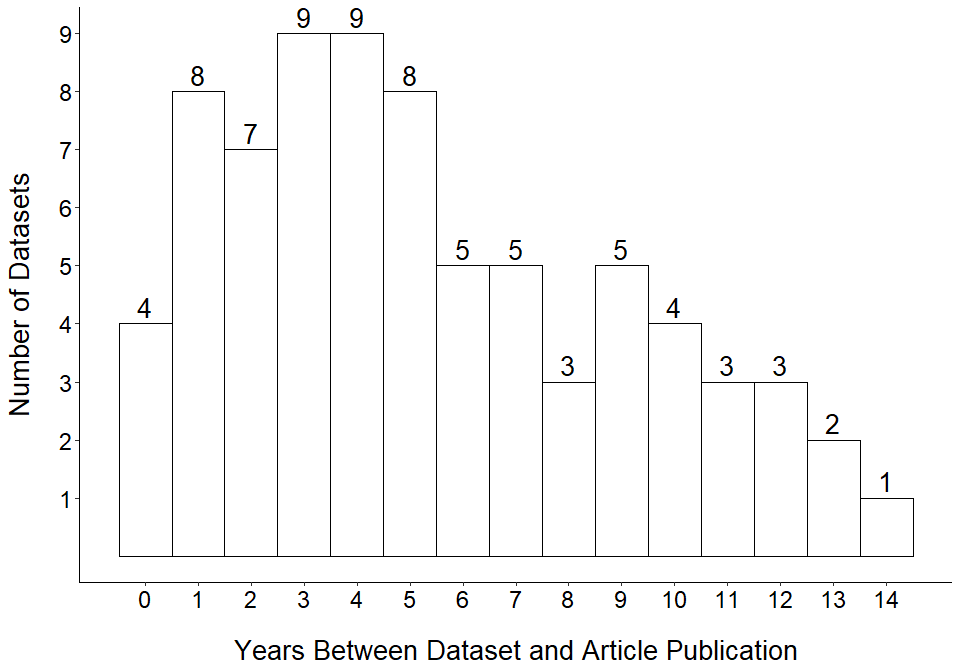
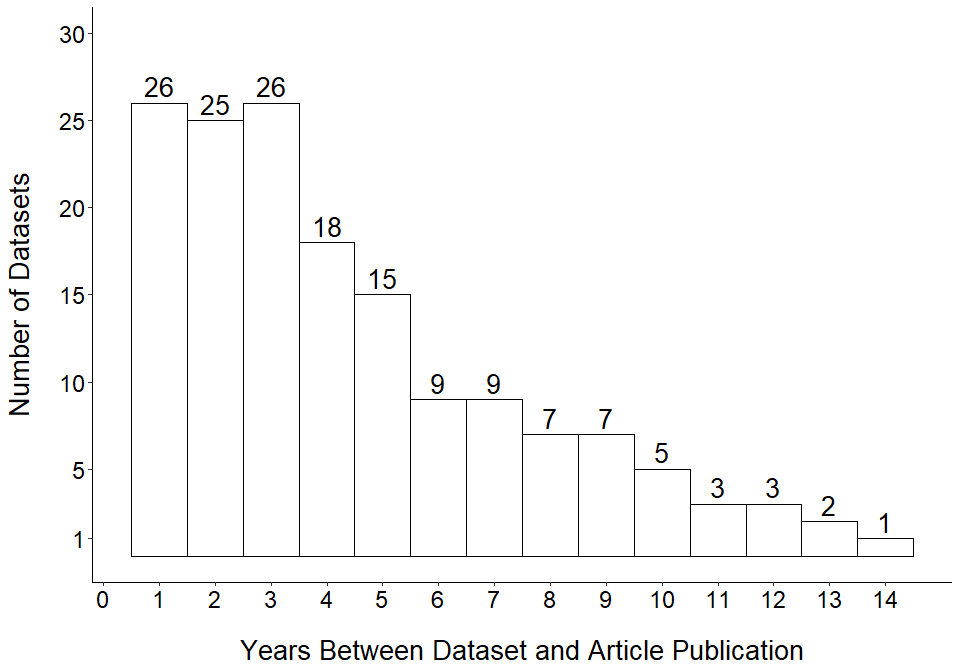
updated plots layout according to newest data input

diff --git a/data/processed/dcc_charite_joined/sankey_interactive_plot.html b/data/processed/dcc_charite_joined/sankey_interactive_plot.html
@@ -1595,9 +1595,9 @@ return function(){for(var n=0,e=0;e<t;++e)n+=Math.random();return n}},um=functio
 </head>
 <body style="background-color: white;">
 <div id="htmlwidget_container">
-  <div class="sankeyNetwork html-widget html-fill-item" id="htmlwidget-493cb6f68fe08b4e468e" style="width:100%;height:338px;"></div>
+  <div class="sankeyNetwork html-widget html-fill-item" id="htmlwidget-27d098e6e8b778ab048d" style="width:100%;height:338px;"></div>
 </div>
-<script type="application/json" data-for="htmlwidget-493cb6f68fe08b4e468e">{"x":{"links":{"source":[0,0,0,1,1,1,2,2,2,2,2,2,2,2,2,2,2,2,2,2,2,3,3,3,4,4,5,6,6,6,7,7,7,8,9,9,10,10,11,11,12,13,13,14,15,16,17,18,19,20,21],"target":[2,3,4,2,3,4,6,7,8,9,10,11,12,13,14,15,16,18,19,20,21,5,9,17,6,21,22,23,22,24,23,22,24,22,22,24,23,22,22,24,22,22,24,24,24,23,24,24,22,24,24],"value":[68,13,1,6,1,1,6,43,1,1,4,3,3,6,1,1,1,1,1,1,1,2,11,1,1,1,2,1,2,4,4,32,7,1,5,7,2,2,2,1,3,4,2,1,1,1,1,1,1,1,2]},"nodes":{"name":["Accession Number","DOI","Full Access","Restricted Access","not checked yet","EGA","ENA","GEO","NCBI RefSeq","NCBI dbGaP","PDB","PRIDE","arrayexpress","bioproject","elsevier","elsevier bv","figshare","harvard dataverse","mendeley","openneuro","uniprot","zenodo","Not Covid Related","Covid Related","covid not checked yet"],"group":["blue","red","yellow","green","gray","gray","gray","gray","gray","gray","gray","gray","gray","gray","gray","gray","gray","gray","gray","gray","gray","gray","purple","pink","white"]},"options":{"NodeID":"name","NodeGroup":"group","LinkGroup":null,"colourScale":"d3.scaleOrdinal().domain([\"blue\", \"red\", \"yellow\", \"green\", \"gray\", \"purple\", \"pink\", \"white\"]).range([\"blue\", \"red\", \"yellow\", \"green\", \"gray\", \"purple\", \"pink\", \"white\"])","fontSize":22,"fontFamily":null,"nodeWidth":15,"nodePadding":10,"units":"","margin":{"top":null,"right":null,"bottom":null,"left":null},"iterations":32,"sinksRight":false}},"evals":[],"jsHooks":[]}</script>
-<script type="application/htmlwidget-sizing" data-for="htmlwidget-493cb6f68fe08b4e468e">{"viewer":{"width":450,"height":350,"padding":10,"fill":true},"browser":{"width":960,"height":500,"padding":10,"fill":true}}</script>
+<script type="application/json" data-for="htmlwidget-27d098e6e8b778ab048d">{"x":{"links":{"source":[0,0,0,1,1,1,2,2,2,2,2,2,2,2,2,2,2,2,2,2,2,3,3,3,4,4,5,6,6,6,7,7,7,8,9,9,10,10,11,11,12,13,13,14,15,16,17,18,19,20,21],"target":[2,3,4,2,3,4,6,7,8,9,10,11,12,13,14,15,16,18,19,20,21,5,9,17,6,21,22,23,22,24,23,22,24,22,22,24,23,22,22,24,22,22,24,24,24,23,24,24,22,24,24],"value":[68,13,1,6,1,1,6,43,1,1,4,3,3,6,1,1,1,1,1,1,1,2,11,1,1,1,2,1,2,4,4,32,7,1,5,7,2,2,2,1,3,4,2,1,1,1,1,1,1,1,2]},"nodes":{"name":["Accession Number","DOI","Full Access","Restricted Access","not checked yet","EGA","ENA","GEO","NCBI RefSeq","NCBI dbGaP","PDB","PRIDE","arrayexpress","bioproject","elsevier","elsevier bv","figshare","harvard dataverse","mendeley","openneuro","uniprot","zenodo","Not Covid Related","Covid Related","covid not checked yet"],"group":["blue","red","yellow","green","gray","gray","gray","gray","gray","gray","gray","gray","gray","gray","gray","gray","gray","gray","gray","gray","gray","gray","purple","pink","white"]},"options":{"NodeID":"name","NodeGroup":"group","LinkGroup":null,"colourScale":"d3.scaleOrdinal().domain([\"blue\", \"red\", \"yellow\", \"green\", \"gray\", \"purple\", \"pink\", \"white\"]).range([\"blue\", \"red\", \"yellow\", \"green\", \"gray\", \"purple\", \"pink\", \"white\"])","fontSize":22,"fontFamily":null,"nodeWidth":15,"nodePadding":10,"units":"","margin":{"top":null,"right":null,"bottom":null,"left":null},"iterations":32,"sinksRight":false}},"evals":[],"jsHooks":[]}</script>
+<script type="application/htmlwidget-sizing" data-for="htmlwidget-27d098e6e8b778ab048d">{"viewer":{"width":450,"height":350,"padding":10,"fill":true},"browser":{"width":960,"height":500,"padding":10,"fill":true}}</script>
 </body>
 </html>
